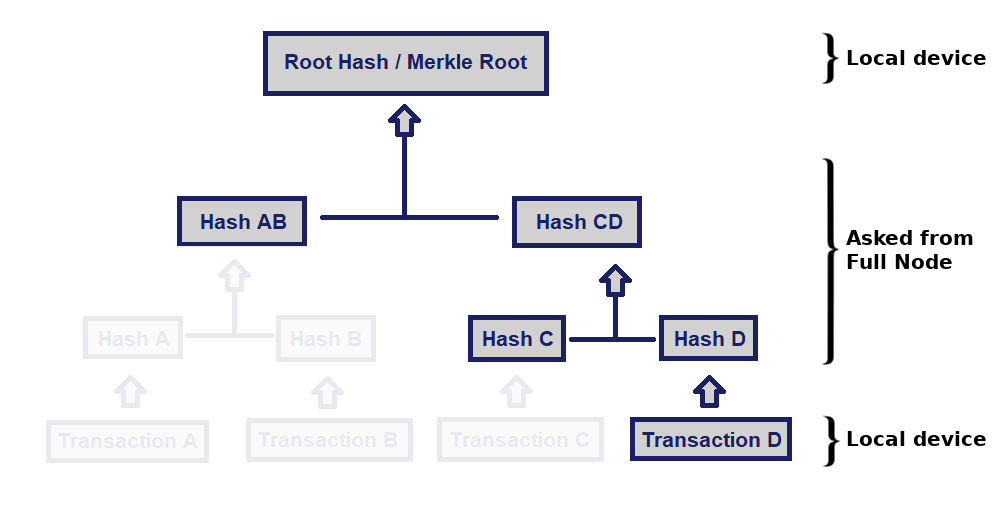
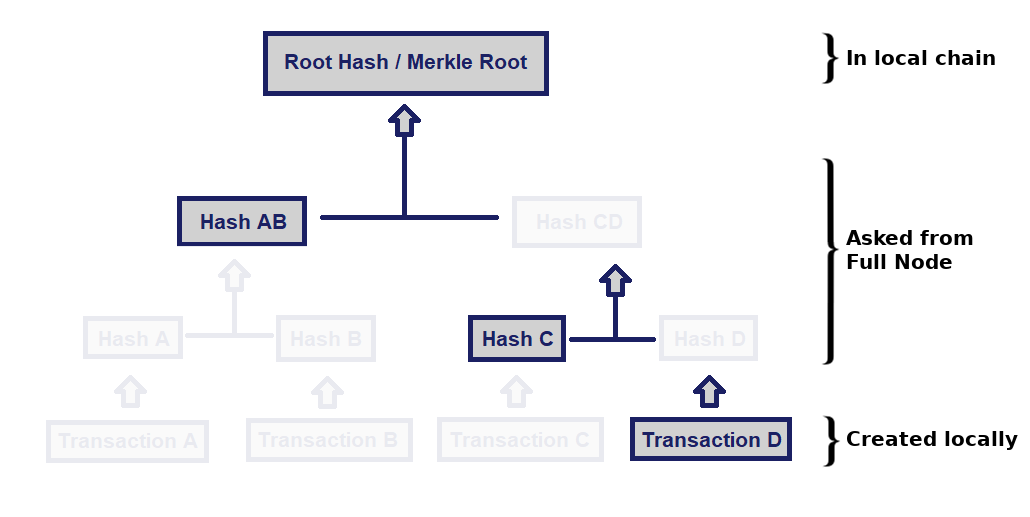
Add slides, update readme

diff --git a/merkle-trees/index.html b/merkle-trees/index.html
@@ -145,7 +145,7 @@
     <hgroup><h2></h2></hgroup>
     <article class="">
       <ul class="large-list" style="margin-top:100px;margin-left:50px;">
-        <li>Every Change affects root</li>
+        <li>Every change affects root</li>
         <li>Integrity of entire dataset is encapsulated in root<br/><br/></li>
           <li>&rarr;Only necessary to store root hash</li>
           <li>&rarr;Recalculating root hash is efficient</li>
@@ -241,6 +241,19 @@
   </slide>
 
   <slide class="" >
+    <hgroup><h2>Option 2</h2></hgroup>
+    <article class="">
+      <center>
+        <img src="imgs/tree-spv2.png" style="width:900px;height:auto;
+				margin-top:-20px;margin-bottom:10px;"  />
+      </center>
+			<div class="build">
+				<center>&rarr; In Bitcoin the tree typically has hundreds transactions/branches</center>
+			</div>
+    </article>
+  </slide>
+
+  <slide class="" >
     <hgroup><h2>
       Simple Payment Verification (SPV)
     </h2></hgroup>
@@ -252,7 +265,7 @@
         </li>
         <li>Full node checks transactions and responds:<br/><span class="italic">"Yes, here's the path from transaction up to root hash"</span></li>
         <li>Light client computes<br/><span style="font-family:monospace;">MerkleRoot' = Hash(T) + receivedPath</span></li>
-        <li>T is in block if:<br/><span style="font-family:monospace;">MerkleRoot' == MerkleRoot</span><br/><br/></li>
+        <li>T is in block if:<br/><span style="font-family:monospace;">Computed MerkleRoot' == MerkleRoot in local Chain</span><br/><br/></li>
         <li style="list-style-type:none !imporatnt;">&rarr;No need to trust anyone!</li>
         <li>&rarr;You "just" have to be on the correct chain.</li>
       </ul>
@@ -396,9 +409,9 @@
     <article class="">
       <ul class="large-list">
         <li>Transactions<br/></li>
-        <li>Receipts:<br/>
+        <li>Receipts<br/>
 				The effect of the block</li>
-        <li>State:<br/>Merkle Tree representing entire state of network<br/>(i.e. each account)</li>
+        <li>State<br/>Merkle Tree representing entire state of network<br/>(i.e. each account)</li>
     </article>
   </slide>
 

diff --git a/README.md b/README.md
@@ -8,6 +8,15 @@ respository.
 
 ---
 
+**Merkle Trees & Merkle Proofs**  
+Berlin, 28. September 2018  
+[View the slides](http://cmichi.github.io/talks/merkle-trees)
+
+---
+
+
+---
+
 **Welcome Day**  
 Berlin, 3. August 2016  
 [View the slides](http://cmichi.github.io/talks/welcome-day)
